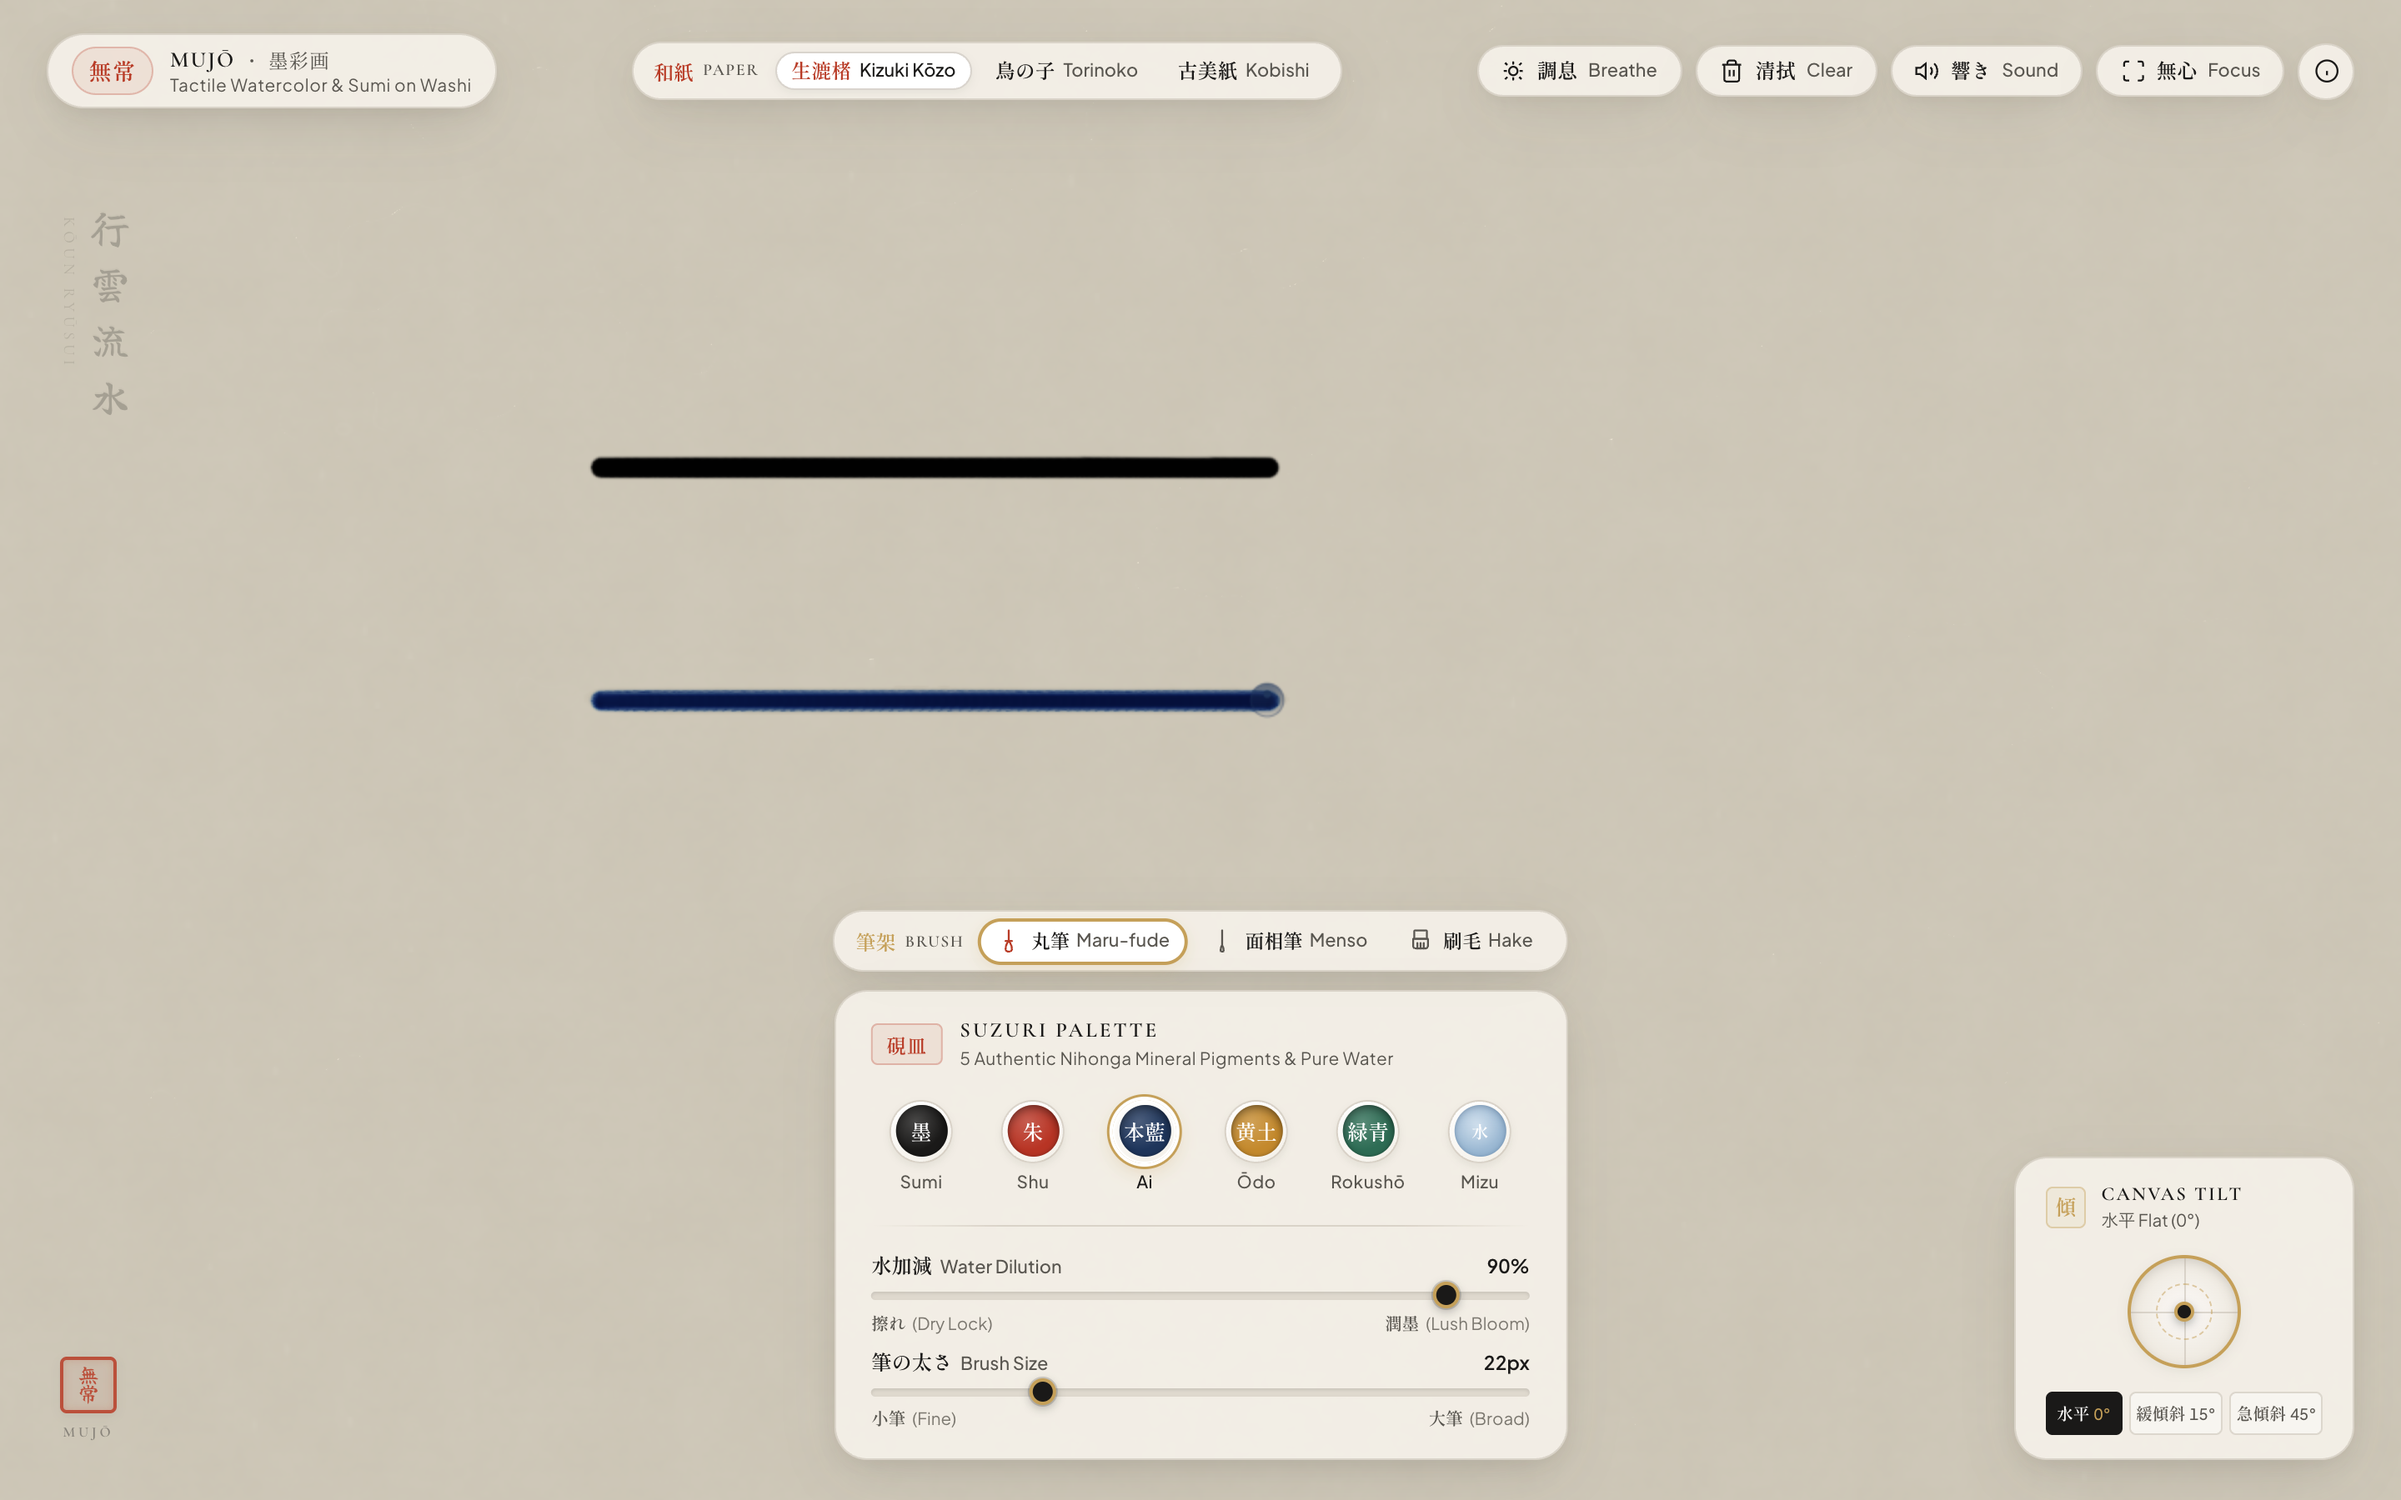
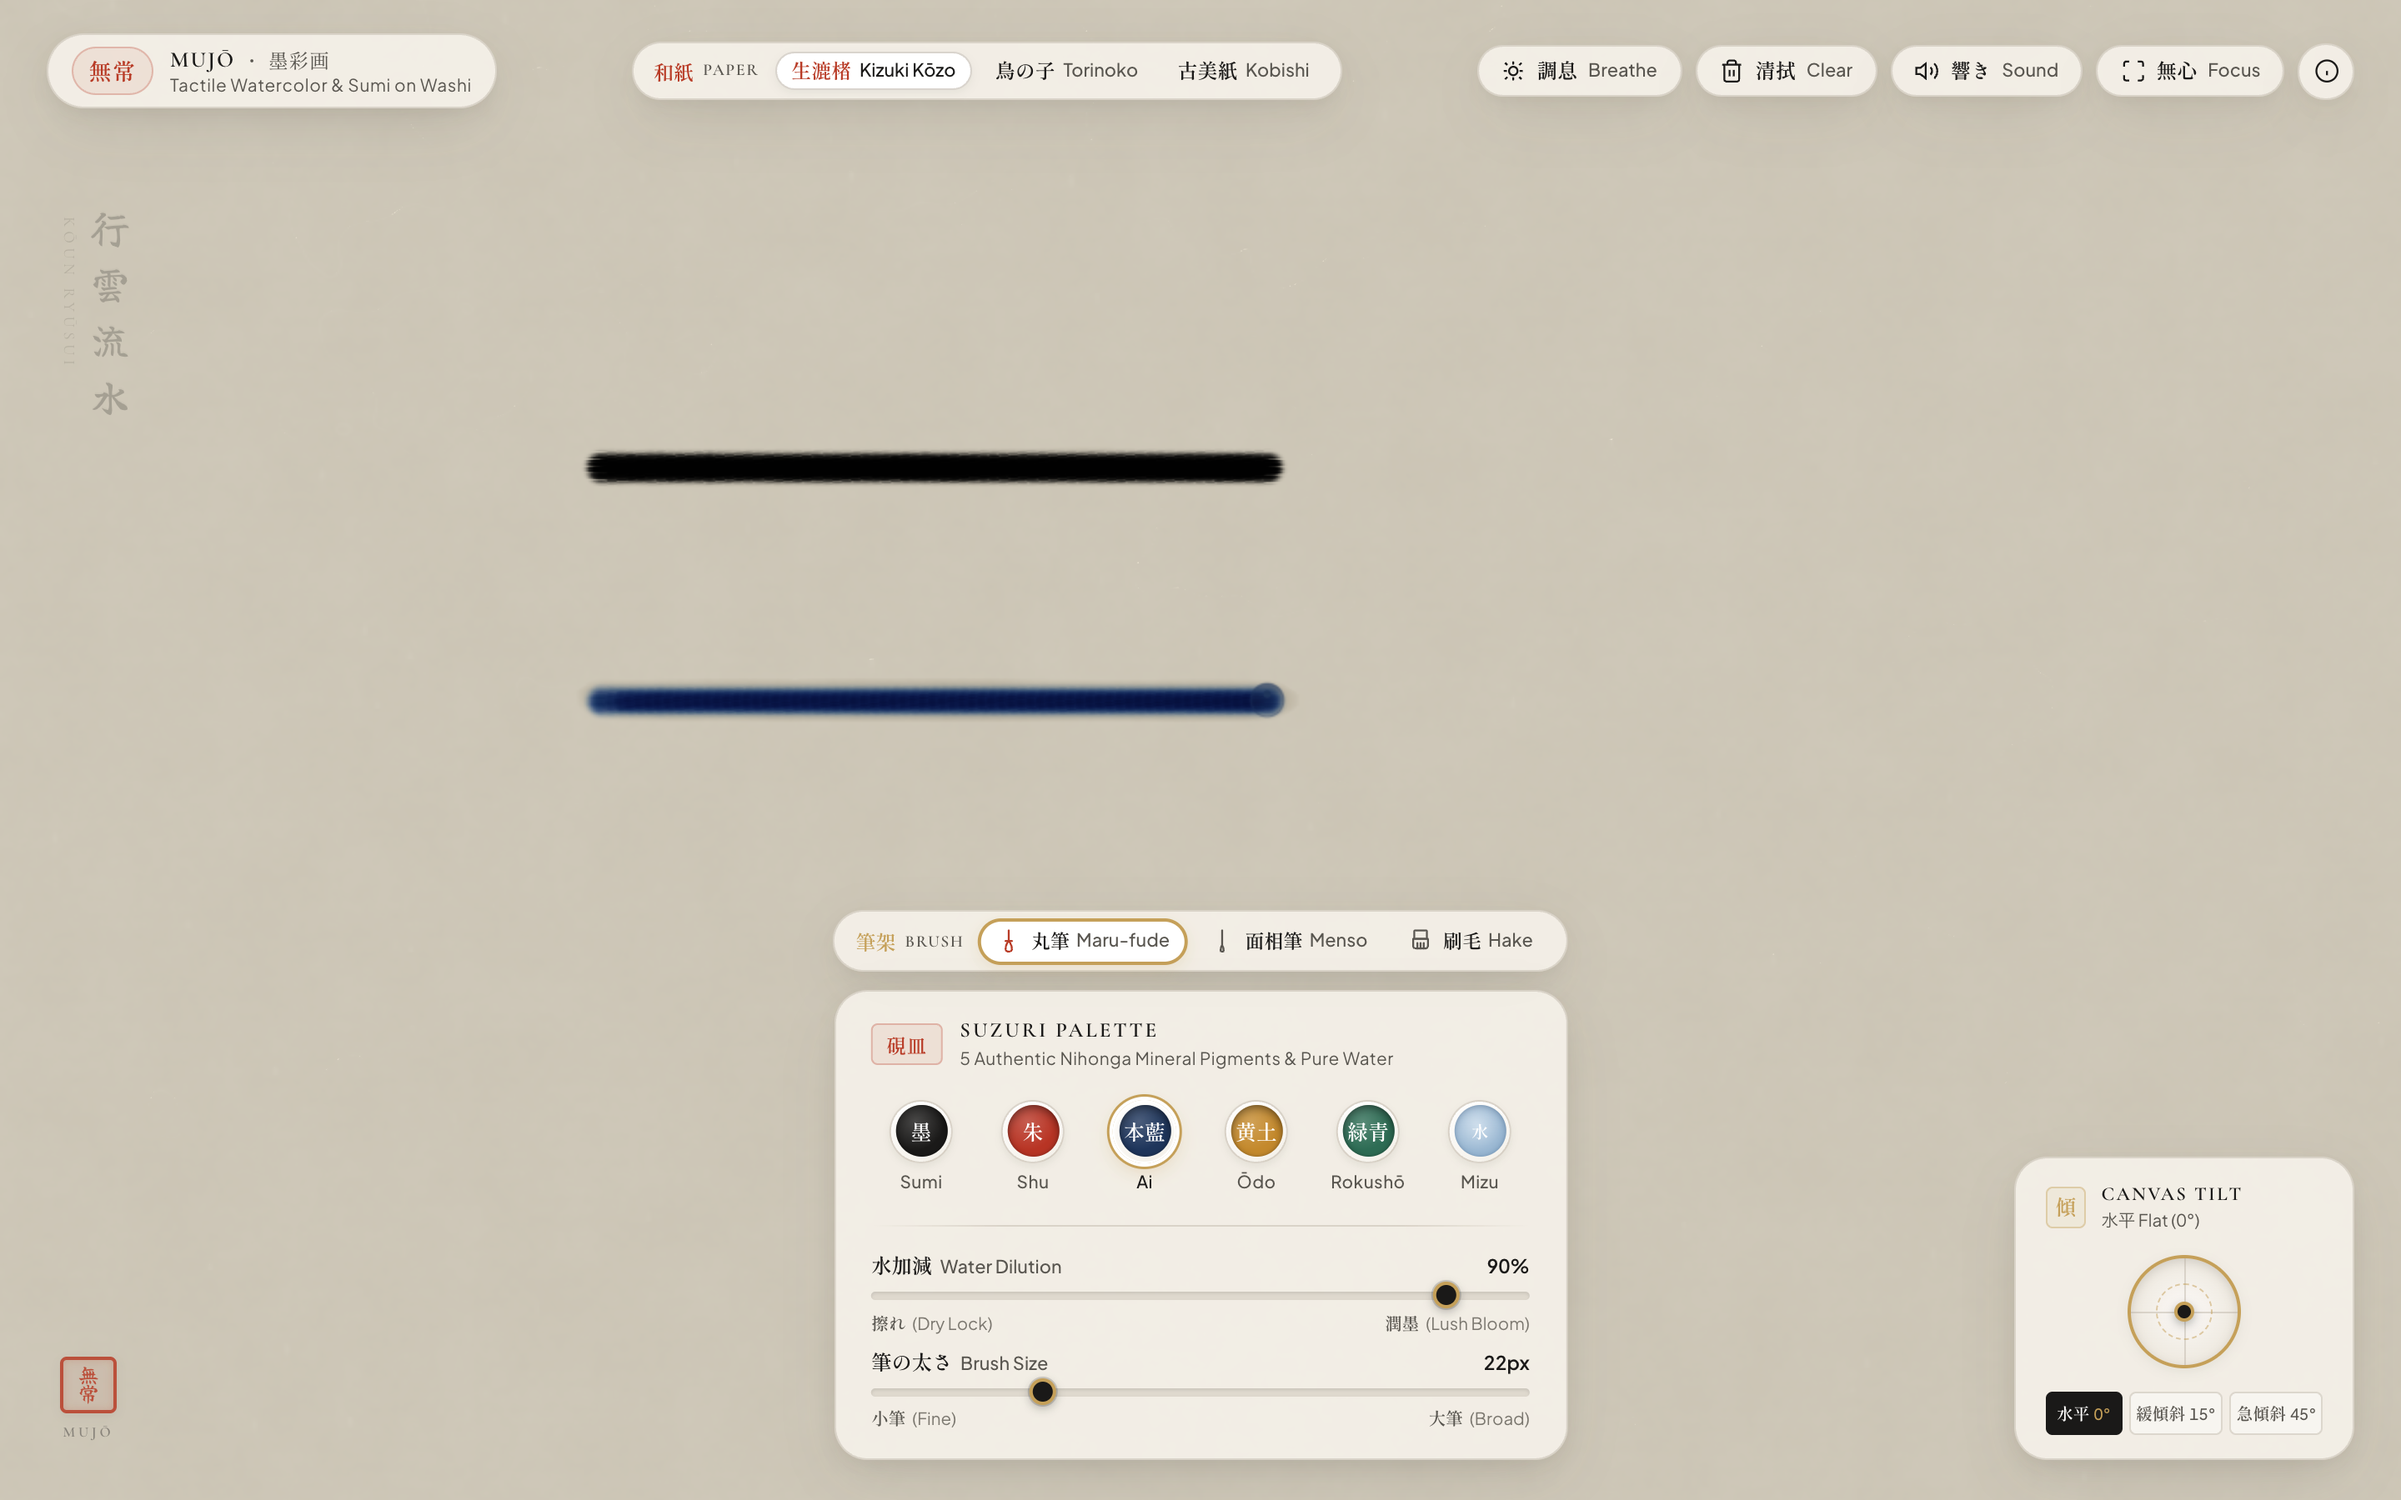
fix(brush): restore multi-strand bristle mechanics, Katabokashi curvature, and hydrodynamic wake vortices

Changed region(s): [[0.25, 0.4356, 0.5312, 0.4978], [0.25, 0.28, 0.5312, 0.3422]]

diff --git a/src/input/SplineEngine.ts b/src/input/SplineEngine.ts
@@ -171,8 +171,6 @@ export class SplineEngine {
     const physVx = (p2.x - p1.x) / dtMillis;
     const physVy = (p2.y - p1.y) / dtMillis;
     const velMag = Math.hypot(physVx, physVy);
-    const normVx = velMag > 0.001 ? (physVx / velMag) * Math.min(velMag * 1.2, 2.5) : 0;
-    const normVy = velMag > 0.001 ? (physVy / velMag) * Math.min(velMag * 1.2, 2.5) : 0;
 
     // Centripetal Catmull-Rom evaluation
     const evalPoint = (t: number): { x: number; y: number } => {
@@ -197,24 +195,51 @@ export class SplineEngine {
       return { x: c_x, y: c_y };
     };
 
+    const spanT = t2 - t1;
+    const epsT = Math.max(spanT * 0.005, 0.0001);
+
     for (let s = 1; s <= steps; s++) {
       const u = s / steps;
-      const t = t1 + u * (t2 - t1);
+      const t = t1 + u * spanT;
       const curr = evalPoint(t);
       const currR = p1.radius + u * (p2.radius - p1.radius);
+
+      // Compute local derivative C'(t) and 2nd derivative C''(t) for analytic curvature
+      const pMinus = evalPoint(Math.max(t0, t - epsT));
+      const pPlus = evalPoint(Math.min(t3, t + epsT));
+
+      const dX = (pPlus.x - pMinus.x) / (2 * epsT);
+      const dY = (pPlus.y - pMinus.y) / (2 * epsT);
+      const d2X = (pPlus.x - 2 * curr.x + pMinus.x) / (epsT * epsT);
+      const d2Y = (pPlus.y - 2 * curr.y + pMinus.y) / (epsT * epsT);
+
+      const dMagSq = dX * dX + dY * dY;
+      const dMag = Math.sqrt(dMagSq);
+
+      let rawCurvature = 0.0;
+      if (dMagSq > 0.0001) {
+        const cross = dX * d2Y - dY * d2X;
+        rawCurvature = cross / Math.pow(dMagSq, 1.5);
+      }
+      // Scale signed curvature by local radius and clamp to [-1, 1]
+      const curvature = Math.max(-1.0, Math.min(1.0, rawCurvature * currR * 0.45));
+
+      // Local tangent velocity vector
+      const subStepLen = Math.hypot(curr.x - prevX, curr.y - prevY);
+      const stepNormVx = dMag > 0.001 ? (dX / dMag) * Math.min(velMag * 1.5 + 0.5, 3.0) : 0;
+      const stepNormVy = dMag > 0.001 ? (dY / dMag) * Math.min(velMag * 1.5 + 0.5, 3.0) : 0;
 
       // Interpolate stylus angle & kinematics
       const currAzimuth = p1.azimuth + u * (p2.azimuth - p1.azimuth);
       const currAspect = p1.aspectRatio + u * (p2.aspectRatio - p1.aspectRatio);
       const currAltitude = p1.altitude + u * (p2.altitude - p1.altitude);
 
-      // Normalized stylus tilt
+      // Normalized stylus tilt with curvature lateral deflection
       const tiltMag = Math.cos(currAltitude);
-      const tiltX = Math.sin(currAzimuth) * tiltMag;
+      const tiltX = Math.sin(currAzimuth) * tiltMag + curvature * 0.35;
       const tiltY = -Math.cos(currAzimuth) * tiltMag;
 
       // Dynamic Reservoir Depletion
-      const subStepLen = Math.hypot(curr.x - prevX, curr.y - prevY);
       const avgPressure = (p1.pressure + p2.pressure) * 0.5;
 
       let typeMultiplier = 1.0;
@@ -226,12 +251,15 @@ export class SplineEngine {
       const spatialDrain = (subStepLen * (0.15 + avgPressure * 0.25)) / baseCapacity;
       this.currentReservoir = Math.max(0.0, this.currentReservoir - spatialDrain);
 
-      // Dryness curve
+      // Dynamic Dryness & Split-Hair Splay (Kasure)
+      const speedDryFactor = Math.min(1.0, velMag * 0.35);
       const sliderDryness = waterDilution < 0.25 ? Math.pow((0.25 - waterDilution) / 0.25, 1.8) : 0.0;
       const reservoirDryness = this.currentReservoir < 0.15 ? Math.pow((0.15 - this.currentReservoir) / 0.15, 1.5) : 0.0;
-      const effectiveDryness = Math.min(1.0, Math.max(sliderDryness, reservoirDryness));
+      const effectiveDryness = Math.min(1.0, Math.max(sliderDryness, reservoirDryness, speedDryFactor * 0.45));
 
-      const splay = Math.max(p1.bristleSplay, effectiveDryness);
+      // Bristle splay spreads wide on dry paper, sharp turns, and low fluid volume
+      const turnSplay = Math.abs(curvature) * 0.35;
+      const splay = Math.min(1.0, Math.max(p1.bristleSplay, effectiveDryness * 0.85 + turnSplay));
 
       const pressureTaper = Math.min(Math.max(avgPressure * 1.2, 0.25), 1.0);
       const reservoirOutput = Math.pow(Math.max(this.currentReservoir, 0.25), 0.5);
@@ -243,7 +271,7 @@ export class SplineEngine {
       segments.push({
         p0: [prevX, prevY],
         p1: [curr.x, curr.y],
-        velocity: [normVx, normVy],
+        velocity: [stepNormVx, stepNormVy],
         radius0: prevR,
         radius1: currR,
         waterAmount: waterDeposit,
@@ -255,10 +283,10 @@ export class SplineEngine {
         bristleSplay: splay,
         reservoir: this.currentReservoir,
         dryness: effectiveDryness,
-        burstSeed: this.strokeSegmentIndex,
-        curvature: 0.0,
-        tiltX,
-        tiltY
+        burstSeed: this.strokeSegmentIndex * 0.6180339887,
+        curvature,
+        tiltX: Math.max(-1.0, Math.min(1.0, tiltX)),
+        tiltY: Math.max(-1.0, Math.min(1.0, tiltY))
       });
 
       prevX = curr.x;
@@ -340,7 +368,7 @@ export class SplineEngine {
         bristleSplay: Math.max(p2.bristleSplay, effectiveDryness),
         reservoir: this.currentReservoir,
         dryness: effectiveDryness,
-        burstSeed: this.strokeSegmentIndex,
+        burstSeed: this.strokeSegmentIndex * 0.6180339887,
         curvature: 0.0,
         tiltX,
         tiltY
